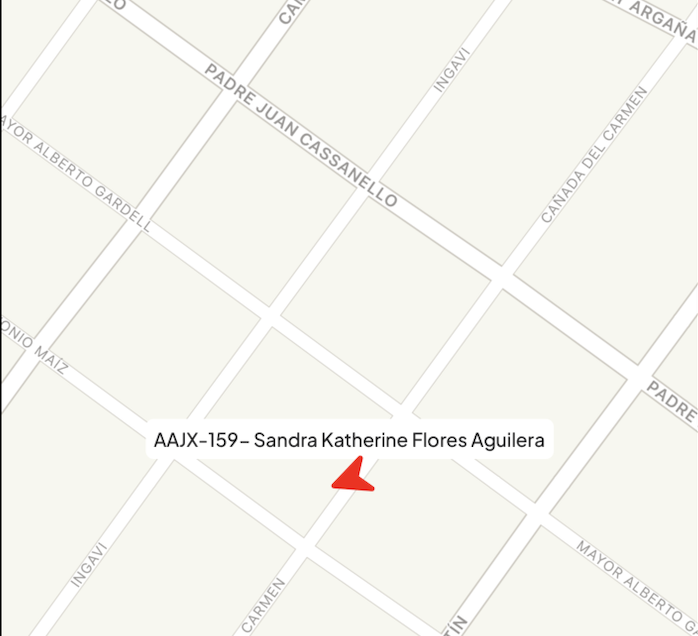
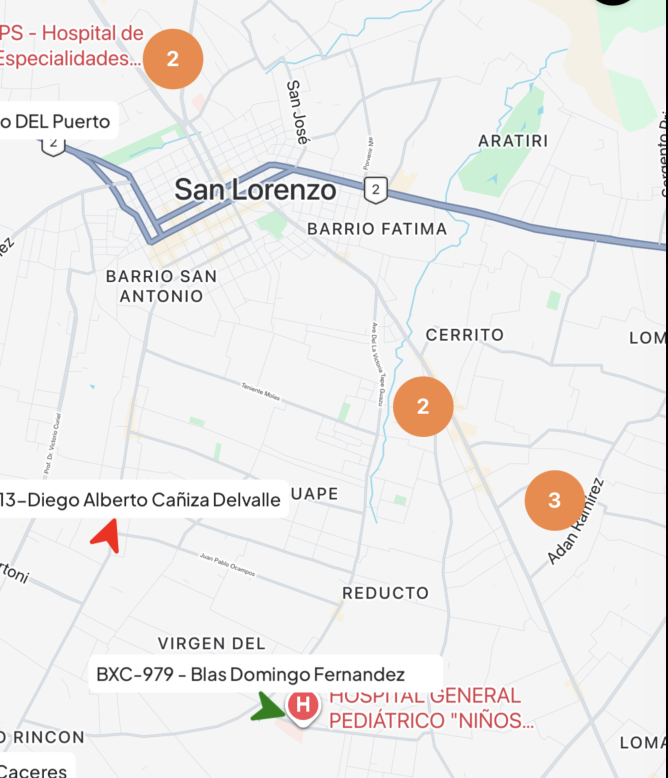
chore: remove how i work

diff --git a/src/styles/global.css b/src/styles/global.css
@@ -281,3 +281,9 @@ code, .mono {
   outline: 2px solid var(--color-accent);
   outline-offset: 2px;
 }
+
+/* Mermaid diagrams — allow wider than content column */
+pre.mermaid {
+  max-width: 900px;
+  margin-inline: auto;
+}
